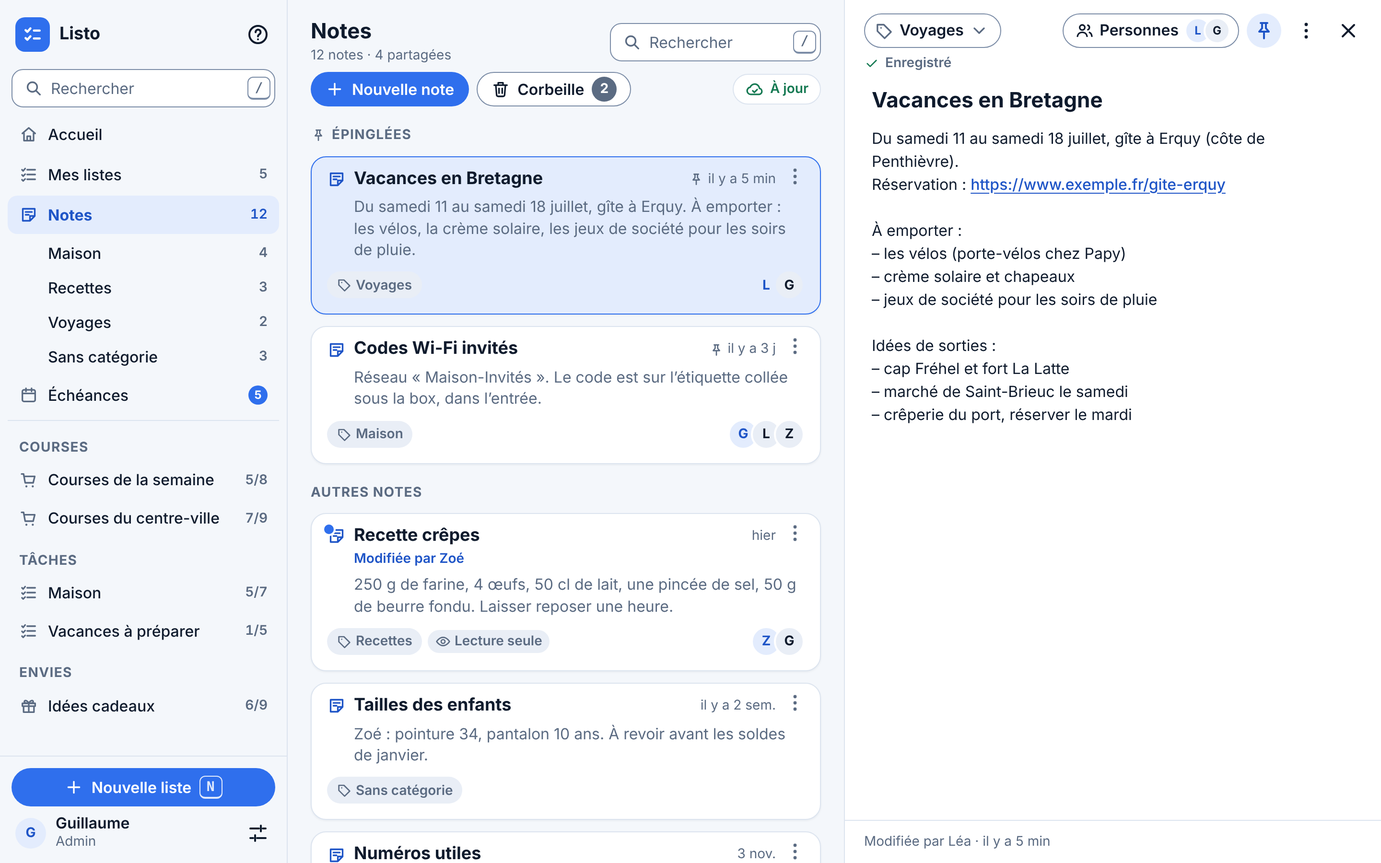
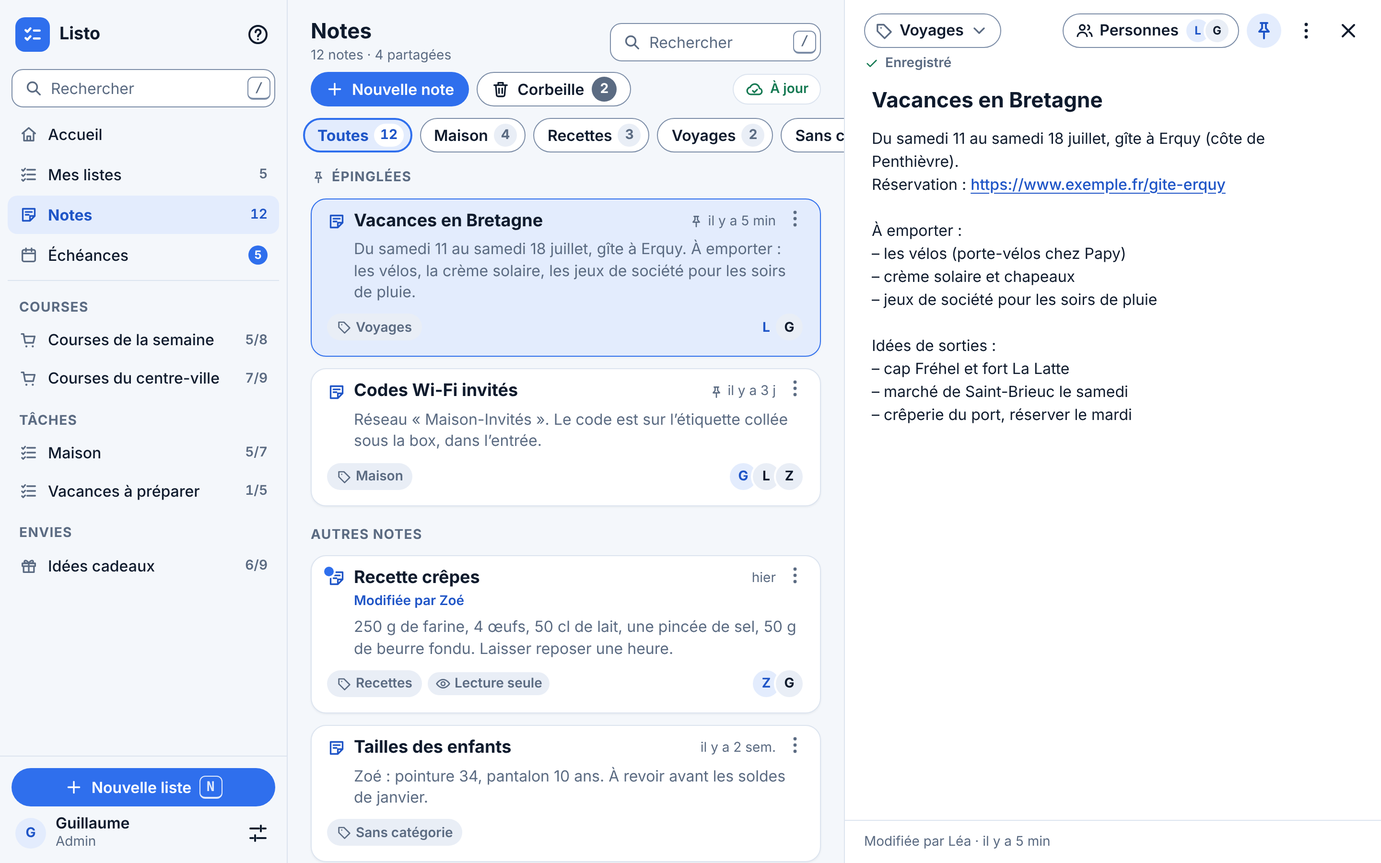
Maquettes : « Notes » sans ses catégories dans le menu de gauche de l'ordinateur
Claude-Session: https://claude.ai/code/session_01RoZ4edsPjQcz3aEDFj3cbP

diff --git a/design/accueil-notes/reference-ordinateur.html b/design/accueil-notes/reference-ordinateur.html
@@ -100,7 +100,7 @@
 </defs></svg>
 <main class="board"><h1 class="board__title">Listo : Accueil et Notes (ordinateur)</h1><p class="board__note">Maquettes du 23 novembre 2026 (cadrage : docs/cadrage-accueil-notes-notifications.md). Chaque écran est capturé seul par capture.mjs (captures/, clair et sombre).</p><div class="board__shots">
 <figure class="shot" id="pc-accueil-1"><figcaption><code>pc-accueil-1</code> · Accueil sur ordinateur</figcaption><div class="desk"><div class="app app--pc"><div class="pc"><aside class="pc-side" aria-label="Navigation"><div class="pc-brand"><a class="pc-brand__home" href="#"><span class="brand-mark" aria-hidden="true"><svg class="icon" aria-hidden="true"><use href="#i-logo"/></svg></span><span class="pc-brand__name">Listo</span><span class="visually-hidden"> Accueil</span></a><button class="icon-btn" type="button" aria-label="Raccourcis clavier"><svg class="icon" aria-hidden="true"><use href="#i-help"/></svg></button></div><label class="searchfield"><svg class="icon icon--sm" aria-hidden="true"><use href="#i-search"/></svg><input class="searchfield__input" type="search" aria-label="Rechercher une liste ou une note" placeholder="Rechercher"><kbd class="keycap">/</kbd></label><div class="pc-side__main"><a class="pc-nav__item" href="#" aria-current="page"><span class="pc-nav__icon"><svg class="icon icon--sm" aria-hidden="true"><use href="#i-home"/></svg></span><span class="pc-nav__name">Accueil</span></a><a class="pc-nav__item" href="#"><span class="pc-nav__icon"><svg class="icon icon--sm" aria-hidden="true"><use href="#i-tasks"/></svg></span><span class="pc-nav__name">Mes listes</span><span class="pc-nav__count">5</span></a><a class="pc-nav__item" href="#"><span class="pc-nav__icon"><svg class="icon icon--sm" aria-hidden="true"><use href="#i-note"/></svg></span><span class="pc-nav__name">Notes</span><span class="pc-nav__count">12</span></a><a class="pc-nav__item" href="#" aria-label="Échéances, 5 tâches en retard ou pour aujourd&#39;hui"><span class="pc-nav__icon"><svg class="icon icon--sm" aria-hidden="true"><use href="#i-calendar"/></svg></span><span class="pc-nav__name">Échéances</span><span class="news-badge" aria-hidden="true">5</span></a></div><nav class="pc-nav" aria-label="Mes listes"><h2 class="pc-nav__group">Courses</h2><ul><li><a class="pc-nav__item" href="#"><span class="pc-nav__icon"><svg class="icon icon--sm" aria-hidden="true"><use href="#i-cart"/></svg></span><span class="pc-nav__name">Courses de la semaine</span><span class="pc-nav__count">5/8</span></a></li><li><a class="pc-nav__item" href="#"><span class="pc-nav__icon"><svg class="icon icon--sm" aria-hidden="true"><use href="#i-cart"/></svg></span><span class="pc-nav__name">Courses du centre-ville</span><span class="pc-nav__count">7/9</span></a></li></ul><h2 class="pc-nav__group">Tâches</h2><ul><li><a class="pc-nav__item" href="#"><span class="pc-nav__icon"><svg class="icon icon--sm" aria-hidden="true"><use href="#i-tasks"/></svg></span><span class="pc-nav__name">Maison</span><span class="pc-nav__count">5/7</span></a></li><li><a class="pc-nav__item" href="#"><span class="pc-nav__icon"><svg class="icon icon--sm" aria-hidden="true"><use href="#i-tasks"/></svg></span><span class="pc-nav__name">Vacances à préparer</span><span class="pc-nav__count">1/5</span></a></li></ul><h2 class="pc-nav__group">Envies</h2><ul><li><a class="pc-nav__item" href="#"><span class="pc-nav__icon"><svg class="icon icon--sm" aria-hidden="true"><use href="#i-gift"/></svg></span><span class="pc-nav__name">Idées cadeaux</span><span class="pc-nav__count">6/9</span></a></li></ul></nav><div class="pc-side__foot"><button class="btn btn--primary btn--block" type="button"><svg class="icon icon--sm" aria-hidden="true"><use href="#i-plus"/></svg>Nouvelle liste<kbd class="keycap">N</kbd></button><div class="pc-user"><span class="avatar">G</span><span class="pc-user__text"><span class="pc-user__name">Guillaume</span><span class="pc-user__role">Admin</span></span><button class="icon-btn" type="button" aria-label="Réglages"><svg class="icon" aria-hidden="true"><use href="#i-sliders"/></svg></button></div></div></aside><main class="pc-main"><div class="pc-col pc-col--wide"><header class="pc-head"><div class="pc-head__main"><h1 class="pc-head__hello">Bonjour Guillaume</h1><p class="pc-head__sub">Lundi 23 novembre</p></div><div class="pc-head__tools"><button class="sync sync--ok" type="button" aria-label="À jour, synchroniser maintenant"><svg class="icon icon--sm" aria-hidden="true"><use href="#i-cloud-ok"/></svg><span class="sync__text">À jour</span></button><button class="icon-btn icon-btn--badge" type="button" aria-label="Notifications, 3 non lues"><svg class="icon" aria-hidden="true"><use href="#i-bell"/></svg><span class="icon-btn__badge" aria-hidden="true">3</span></button></div></header><div class="tiles"><section class="card tile" aria-label="Échéances"><button class="tile__head" type="button"><svg class="icon" aria-hidden="true"><use href="#i-calendar"/></svg><span class="tile__name">Échéances</span></button><ul class="tile__rows"><li><button class="tile__row" type="button" aria-label="En retard, 2 tâches"><span class="tile__label">En retard</span><span class="count count--danger" aria-hidden="true">2</span></button></li><li><button class="tile__row" type="button" aria-label="Aujourd&#39;hui, 3 tâches"><span class="tile__label">Aujourd&#39;hui</span><span class="count count--success" aria-hidden="true">3</span></button></li><li><button class="tile__row" type="button" aria-label="Plus tard, 8 tâches"><span class="tile__label">Plus tard</span><span class="count" aria-hidden="true">8</span></button></li></ul></section><section class="card tile" aria-label="Listes"><button class="tile__head" type="button"><svg class="icon" aria-hidden="true"><use href="#i-tasks"/></svg><span class="tile__name">Listes</span></button><ul class="tile__rows"><li><button class="tile__row" type="button" aria-label="Courses, 2 listes"><span class="tile__label">Courses</span><span class="count" aria-hidden="true">2</span></button></li><li><button class="tile__row" type="button" aria-label="Tâches, 2 listes, nouveautés"><span class="tile__label">Tâches</span><span class="tile__dot" aria-hidden="true"></span><span class="count" aria-hidden="true">2</span></button></li><li><button class="tile__row" type="button" aria-label="Envies, 1 liste"><span class="tile__label">Envies</span><span class="count" aria-hidden="true">1</span></button></li></ul></section><section class="card tile" aria-label="Notes"><button class="tile__head" type="button" aria-label="Notes, 12 notes"><svg class="icon" aria-hidden="true"><use href="#i-note"/></svg><span class="tile__name">Notes</span></button><p class="tile__meta" aria-hidden="true">12 notes</p><ul class="tile__rows"><li><button class="tile__row" type="button" aria-label="Vacances en Bretagne, modifiée par Léa"><span class="tile__label">Vacances en Bretagne</span><span class="tile__dot" aria-hidden="true"></span></button></li><li><button class="tile__row" type="button"><span class="tile__label">Recette crêpes</span></button></li><li><button class="tile__row" type="button"><span class="tile__label">Codes Wi-Fi invités</span></button></li><li><button class="tile__row" type="button"><span class="tile__label">Tailles des enfants</span></button></li><li><button class="tile__row tile__row--add" type="button"><svg class="icon icon--sm" aria-hidden="true"><use href="#i-plus"/></svg><span class="tile__label">Nouvelle note</span></button></li></ul></section><section class="card tile" aria-label="Compte"><button class="tile__head" type="button"><svg class="icon" aria-hidden="true"><use href="#i-user"/></svg><span class="tile__name">Compte</span></button><ul class="tile__rows"><li><button class="tile__row" type="button"><span class="tile__label">Mon compte</span><svg class="icon icon--sm" aria-hidden="true"><use href="#i-chev-r"/></svg></button></li><li><button class="tile__row" type="button" aria-label="Notifications, 3 non lues"><span class="tile__label">Notifications</span><span class="count count--accent" aria-hidden="true">3</span></button></li><li><button class="tile__row" type="button"><span class="tile__label">Réglages</span><svg class="icon icon--sm" aria-hidden="true"><use href="#i-chev-r"/></svg></button></li></ul></section></div></div></main></div></div></div></figure>
-<figure class="shot" id="pc-notes-1"><figcaption><code>pc-notes-1</code> · Notes sur ordinateur</figcaption><div class="desk"><div class="app app--pc"><div class="pc"><aside class="pc-side" aria-label="Navigation"><div class="pc-brand"><a class="pc-brand__home" href="#"><span class="brand-mark" aria-hidden="true"><svg class="icon" aria-hidden="true"><use href="#i-logo"/></svg></span><span class="pc-brand__name">Listo</span><span class="visually-hidden"> Accueil</span></a><button class="icon-btn" type="button" aria-label="Raccourcis clavier"><svg class="icon" aria-hidden="true"><use href="#i-help"/></svg></button></div><label class="searchfield"><svg class="icon icon--sm" aria-hidden="true"><use href="#i-search"/></svg><input class="searchfield__input" type="search" aria-label="Rechercher une liste ou une note" placeholder="Rechercher"><kbd class="keycap">/</kbd></label><div class="pc-side__main"><a class="pc-nav__item" href="#"><span class="pc-nav__icon"><svg class="icon icon--sm" aria-hidden="true"><use href="#i-home"/></svg></span><span class="pc-nav__name">Accueil</span></a><a class="pc-nav__item" href="#"><span class="pc-nav__icon"><svg class="icon icon--sm" aria-hidden="true"><use href="#i-tasks"/></svg></span><span class="pc-nav__name">Mes listes</span><span class="pc-nav__count">5</span></a><a class="pc-nav__item" href="#" aria-current="page"><span class="pc-nav__icon"><svg class="icon icon--sm" aria-hidden="true"><use href="#i-note"/></svg></span><span class="pc-nav__name">Notes</span><span class="pc-nav__count">12</span></a><ul aria-label="Catégories des notes"><li><a class="pc-nav__item pc-nav__item--sub" href="#" aria-label="Maison, 4 notes"><span class="pc-nav__name">Maison</span><span class="pc-nav__count">4</span></a></li><li><a class="pc-nav__item pc-nav__item--sub" href="#" aria-label="Recettes, 3 notes"><span class="pc-nav__name">Recettes</span><span class="pc-nav__count">3</span></a></li><li><a class="pc-nav__item pc-nav__item--sub" href="#" aria-label="Voyages, 2 notes"><span class="pc-nav__name">Voyages</span><span class="pc-nav__count">2</span></a></li><li><a class="pc-nav__item pc-nav__item--sub" href="#" aria-label="Sans catégorie, 3 notes"><span class="pc-nav__name">Sans catégorie</span><span class="pc-nav__count">3</span></a></li></ul><a class="pc-nav__item" href="#" aria-label="Échéances, 5 tâches en retard ou pour aujourd&#39;hui"><span class="pc-nav__icon"><svg class="icon icon--sm" aria-hidden="true"><use href="#i-calendar"/></svg></span><span class="pc-nav__name">Échéances</span><span class="news-badge" aria-hidden="true">5</span></a></div><nav class="pc-nav" aria-label="Mes listes"><h2 class="pc-nav__group">Courses</h2><ul><li><a class="pc-nav__item" href="#"><span class="pc-nav__icon"><svg class="icon icon--sm" aria-hidden="true"><use href="#i-cart"/></svg></span><span class="pc-nav__name">Courses de la semaine</span><span class="pc-nav__count">5/8</span></a></li><li><a class="pc-nav__item" href="#"><span class="pc-nav__icon"><svg class="icon icon--sm" aria-hidden="true"><use href="#i-cart"/></svg></span><span class="pc-nav__name">Courses du centre-ville</span><span class="pc-nav__count">7/9</span></a></li></ul><h2 class="pc-nav__group">Tâches</h2><ul><li><a class="pc-nav__item" href="#"><span class="pc-nav__icon"><svg class="icon icon--sm" aria-hidden="true"><use href="#i-tasks"/></svg></span><span class="pc-nav__name">Maison</span><span class="pc-nav__count">5/7</span></a></li><li><a class="pc-nav__item" href="#"><span class="pc-nav__icon"><svg class="icon icon--sm" aria-hidden="true"><use href="#i-tasks"/></svg></span><span class="pc-nav__name">Vacances à préparer</span><span class="pc-nav__count">1/5</span></a></li></ul><h2 class="pc-nav__group">Envies</h2><ul><li><a class="pc-nav__item" href="#"><span class="pc-nav__icon"><svg class="icon icon--sm" aria-hidden="true"><use href="#i-gift"/></svg></span><span class="pc-nav__name">Idées cadeaux</span><span class="pc-nav__count">6/9</span></a></li></ul></nav><div class="pc-side__foot"><button class="btn btn--primary btn--block" type="button"><svg class="icon icon--sm" aria-hidden="true"><use href="#i-plus"/></svg>Nouvelle liste<kbd class="keycap">N</kbd></button><div class="pc-user"><span class="avatar">G</span><span class="pc-user__text"><span class="pc-user__name">Guillaume</span><span class="pc-user__role">Admin</span></span><button class="icon-btn" type="button" aria-label="Réglages"><svg class="icon" aria-hidden="true"><use href="#i-sliders"/></svg></button></div></div></aside><main class="pc-main"><div class="pc-notes"><div class="pc-notes__list"><header class="pc-head"><div class="pc-head__main"><h1 class="pc-head__title">Notes</h1><p class="pc-head__sub">12 notes · 4 partagées</p></div><label class="searchfield"><svg class="icon icon--sm" aria-hidden="true"><use href="#i-search"/></svg><input class="searchfield__input" type="search" aria-label="Rechercher dans les notes" placeholder="Rechercher"><kbd class="keycap">/</kbd></label></header><div class="pc-tools"><button class="btn btn--primary btn--sm" type="button"><svg class="icon icon--sm" aria-hidden="true"><use href="#i-plus"/></svg>Nouvelle note</button><button class="btn btn--secondary btn--sm" type="button" aria-label="Corbeille des notes, 2 notes"><svg class="icon icon--sm" aria-hidden="true"><use href="#i-trash"/></svg>Corbeille<span class="count" aria-hidden="true">2</span></button><div class="pc-tools__end"><button class="sync sync--ok" type="button" aria-label="À jour, synchroniser maintenant"><svg class="icon icon--sm" aria-hidden="true"><use href="#i-cloud-ok"/></svg><span class="sync__text">À jour</span></button></div></div><div class="scroll"><div class="pc-notes__cards"><h2 class="notes-section"><svg class="icon icon--xs" aria-hidden="true"><use href="#i-pin"/></svg>Épinglées</h2><article class="card note-card is-selected"><div class="note-card__head"><span class="note-card__icon"><svg class="icon icon--sm" aria-hidden="true"><use href="#i-note"/></svg></span><h3 class="note-card__title"><a href="#" style="color:inherit;text-decoration:none">Vacances en Bretagne</a></h3><span class="note-card__time"><svg class="icon icon--xs" aria-hidden="true"><use href="#i-pin"/></svg><span class="visually-hidden">Épinglée, </span>il y a 5 min</span><button class="icon-btn" type="button" aria-label="Actions de Vacances en Bretagne"><svg class="icon" aria-hidden="true"><use href="#i-more"/></svg></button></div><p class="note-card__excerpt">Du samedi 11 au samedi 18 juillet, gîte à Erquy. À emporter : les vélos, la crème solaire, les jeux de société pour les soirs de pluie.</p><div class="note-card__foot"><div class="note-card__chips"><span class="chip"><svg class="icon icon--xs" aria-hidden="true"><use href="#i-tag"/></svg>Voyages</span></div><div class="avatars" role="img" aria-label="Partagée avec Léa, Guillaume"><span class="avatar">L</span><span class="avatar avatar--b">G</span></div></div></article><article class="card note-card"><div class="note-card__head"><span class="note-card__icon"><svg class="icon icon--sm" aria-hidden="true"><use href="#i-note"/></svg></span><h3 class="note-card__title"><a href="#" style="color:inherit;text-decoration:none">Codes Wi-Fi invités</a></h3><span class="note-card__time"><svg class="icon icon--xs" aria-hidden="true"><use href="#i-pin"/></svg><span class="visually-hidden">Épinglée, </span>il y a 3 j</span><button class="icon-btn" type="button" aria-label="Actions de Codes Wi-Fi invités"><svg class="icon" aria-hidden="true"><use href="#i-more"/></svg></button></div><p class="note-card__excerpt">Réseau «&nbsp;Maison-Invités&nbsp;». Le code est sur l’étiquette collée sous la box, dans l’entrée.</p><div class="note-card__foot"><div class="note-card__chips"><span class="chip"><svg class="icon icon--xs" aria-hidden="true"><use href="#i-tag"/></svg>Maison</span></div><div class="avatars" role="img" aria-label="Partagée avec Guillaume, Léa, Zoé"><span class="avatar">G</span><span class="avatar avatar--b">L</span><span class="avatar avatar--b">Z</span></div></div></article><h2 class="notes-section">Autres notes</h2><article class="card note-card"><div class="note-card__head"><span class="note-card__icon"><svg class="icon icon--sm" aria-hidden="true"><use href="#i-note"/></svg><span class="news-badge news-badge--dot" role="img" aria-label="Nouveautés"></span></span><h3 class="note-card__title"><a href="#" style="color:inherit;text-decoration:none">Recette crêpes</a></h3><span class="note-card__time">hier</span><button class="icon-btn" type="button" aria-label="Actions de Recette crêpes"><svg class="icon" aria-hidden="true"><use href="#i-more"/></svg></button></div><span class="note-card__news">Modifiée par Zoé</span><p class="note-card__excerpt">250 g de farine, 4 œufs, 50 cl de lait, une pincée de sel, 50 g de beurre fondu. Laisser reposer une heure.</p><div class="note-card__foot"><div class="note-card__chips"><span class="chip"><svg class="icon icon--xs" aria-hidden="true"><use href="#i-tag"/></svg>Recettes</span><span class="chip chip--readonly"><svg class="icon icon--xs" aria-hidden="true"><use href="#i-eye"/></svg>Lecture seule</span></div><div class="avatars" role="img" aria-label="Partagée avec Zoé, Guillaume"><span class="avatar">Z</span><span class="avatar avatar--b">G</span></div></div></article><article class="card note-card"><div class="note-card__head"><span class="note-card__icon"><svg class="icon icon--sm" aria-hidden="true"><use href="#i-note"/></svg></span><h3 class="note-card__title"><a href="#" style="color:inherit;text-decoration:none">Tailles des enfants</a></h3><span class="note-card__time">il y a 2 sem.</span><button class="icon-btn" type="button" aria-label="Actions de Tailles des enfants"><svg class="icon" aria-hidden="true"><use href="#i-more"/></svg></button></div><p class="note-card__excerpt">Zoé : pointure 34, pantalon 10 ans. À revoir avant les soldes de janvier.</p><div class="note-card__foot"><div class="note-card__chips"><span class="chip"><svg class="icon icon--xs" aria-hidden="true"><use href="#i-tag"/></svg>Sans catégorie</span></div></div></article><article class="card note-card"><div class="note-card__head"><span class="note-card__icon"><svg class="icon icon--sm" aria-hidden="true"><use href="#i-note"/></svg></span><h3 class="note-card__title"><a href="#" style="color:inherit;text-decoration:none">Numéros utiles</a></h3><span class="note-card__time">3 nov.</span><button class="icon-btn" type="button" aria-label="Actions de Numéros utiles"><svg class="icon" aria-hidden="true"><use href="#i-more"/></svg></button></div><p class="note-card__excerpt">Plombier, électricien, chauffagiste : les cartes sont dans le tiroir de l’entrée.</p><div class="note-card__foot"><div class="note-card__chips"><span class="chip"><svg class="icon icon--xs" aria-hidden="true"><use href="#i-tag"/></svg>Maison</span></div></div></article></div></div></div><section class="pc-note" aria-label="Note ouverte : Vacances en Bretagne"><div class="pc-note__bar"><button class="btn btn--sm btn--secondary note-cat" type="button" aria-haspopup="listbox" aria-label="Catégorie : Voyages. Changer"><svg class="icon icon--sm" aria-hidden="true"><use href="#i-tag"/></svg><span class="note-cat__name">Voyages</span><svg class="icon icon--sm" aria-hidden="true"><use href="#i-chev-d"/></svg></button><span class="grow"></span><button class="btn btn--sm btn--secondary note-people" type="button" aria-haspopup="dialog" aria-label="Personnes : Léa (propriétaire) et vous, peut modifier"><svg class="icon icon--sm" aria-hidden="true"><use href="#i-users"/></svg>Personnes<span class="avatars" aria-hidden="true"><span class="avatar">L</span><span class="avatar avatar--b">G</span></span></button><button class="icon-btn" type="button" aria-label="Désépingler" aria-pressed="true"><svg class="icon" aria-hidden="true"><use href="#i-pin"/></svg></button><button class="icon-btn" type="button" aria-label="Plus d&#39;actions" aria-haspopup="menu"><svg class="icon" aria-hidden="true"><use href="#i-more"/></svg></button><button class="icon-btn" type="button" aria-label="Fermer la note"><svg class="icon" aria-hidden="true"><use href="#i-close"/></svg></button></div><p class="note-status note-status--ok" role="status"><svg class="icon icon--xs" aria-hidden="true"><use href="#i-check"/></svg>Enregistré</p><div class="note-edit"><input class="note-edit__title" type="text" aria-label="Titre" value="Vacances en Bretagne"><div class="note-edit__body" role="textbox" aria-multiline="true" aria-label="Texte de la note">Du samedi 11 au samedi 18 juillet, gîte à Erquy (côte de Penthièvre).
+<figure class="shot" id="pc-notes-1"><figcaption><code>pc-notes-1</code> · Notes sur ordinateur</figcaption><div class="desk"><div class="app app--pc"><div class="pc"><aside class="pc-side" aria-label="Navigation"><div class="pc-brand"><a class="pc-brand__home" href="#"><span class="brand-mark" aria-hidden="true"><svg class="icon" aria-hidden="true"><use href="#i-logo"/></svg></span><span class="pc-brand__name">Listo</span><span class="visually-hidden"> Accueil</span></a><button class="icon-btn" type="button" aria-label="Raccourcis clavier"><svg class="icon" aria-hidden="true"><use href="#i-help"/></svg></button></div><label class="searchfield"><svg class="icon icon--sm" aria-hidden="true"><use href="#i-search"/></svg><input class="searchfield__input" type="search" aria-label="Rechercher une liste ou une note" placeholder="Rechercher"><kbd class="keycap">/</kbd></label><div class="pc-side__main"><a class="pc-nav__item" href="#"><span class="pc-nav__icon"><svg class="icon icon--sm" aria-hidden="true"><use href="#i-home"/></svg></span><span class="pc-nav__name">Accueil</span></a><a class="pc-nav__item" href="#"><span class="pc-nav__icon"><svg class="icon icon--sm" aria-hidden="true"><use href="#i-tasks"/></svg></span><span class="pc-nav__name">Mes listes</span><span class="pc-nav__count">5</span></a><a class="pc-nav__item" href="#" aria-current="page"><span class="pc-nav__icon"><svg class="icon icon--sm" aria-hidden="true"><use href="#i-note"/></svg></span><span class="pc-nav__name">Notes</span><span class="pc-nav__count">12</span></a><a class="pc-nav__item" href="#" aria-label="Échéances, 5 tâches en retard ou pour aujourd&#39;hui"><span class="pc-nav__icon"><svg class="icon icon--sm" aria-hidden="true"><use href="#i-calendar"/></svg></span><span class="pc-nav__name">Échéances</span><span class="news-badge" aria-hidden="true">5</span></a></div><nav class="pc-nav" aria-label="Mes listes"><h2 class="pc-nav__group">Courses</h2><ul><li><a class="pc-nav__item" href="#"><span class="pc-nav__icon"><svg class="icon icon--sm" aria-hidden="true"><use href="#i-cart"/></svg></span><span class="pc-nav__name">Courses de la semaine</span><span class="pc-nav__count">5/8</span></a></li><li><a class="pc-nav__item" href="#"><span class="pc-nav__icon"><svg class="icon icon--sm" aria-hidden="true"><use href="#i-cart"/></svg></span><span class="pc-nav__name">Courses du centre-ville</span><span class="pc-nav__count">7/9</span></a></li></ul><h2 class="pc-nav__group">Tâches</h2><ul><li><a class="pc-nav__item" href="#"><span class="pc-nav__icon"><svg class="icon icon--sm" aria-hidden="true"><use href="#i-tasks"/></svg></span><span class="pc-nav__name">Maison</span><span class="pc-nav__count">5/7</span></a></li><li><a class="pc-nav__item" href="#"><span class="pc-nav__icon"><svg class="icon icon--sm" aria-hidden="true"><use href="#i-tasks"/></svg></span><span class="pc-nav__name">Vacances à préparer</span><span class="pc-nav__count">1/5</span></a></li></ul><h2 class="pc-nav__group">Envies</h2><ul><li><a class="pc-nav__item" href="#"><span class="pc-nav__icon"><svg class="icon icon--sm" aria-hidden="true"><use href="#i-gift"/></svg></span><span class="pc-nav__name">Idées cadeaux</span><span class="pc-nav__count">6/9</span></a></li></ul></nav><div class="pc-side__foot"><button class="btn btn--primary btn--block" type="button"><svg class="icon icon--sm" aria-hidden="true"><use href="#i-plus"/></svg>Nouvelle liste<kbd class="keycap">N</kbd></button><div class="pc-user"><span class="avatar">G</span><span class="pc-user__text"><span class="pc-user__name">Guillaume</span><span class="pc-user__role">Admin</span></span><button class="icon-btn" type="button" aria-label="Réglages"><svg class="icon" aria-hidden="true"><use href="#i-sliders"/></svg></button></div></div></aside><main class="pc-main"><div class="pc-notes"><div class="pc-notes__list"><header class="pc-head"><div class="pc-head__main"><h1 class="pc-head__title">Notes</h1><p class="pc-head__sub">12 notes · 4 partagées</p></div><label class="searchfield"><svg class="icon icon--sm" aria-hidden="true"><use href="#i-search"/></svg><input class="searchfield__input" type="search" aria-label="Rechercher dans les notes" placeholder="Rechercher"><kbd class="keycap">/</kbd></label></header><div class="pc-tools"><button class="btn btn--primary btn--sm" type="button"><svg class="icon icon--sm" aria-hidden="true"><use href="#i-plus"/></svg>Nouvelle note</button><button class="btn btn--secondary btn--sm" type="button" aria-label="Corbeille des notes, 2 notes"><svg class="icon icon--sm" aria-hidden="true"><use href="#i-trash"/></svg>Corbeille<span class="count" aria-hidden="true">2</span></button><div class="pc-tools__end"><button class="sync sync--ok" type="button" aria-label="À jour, synchroniser maintenant"><svg class="icon icon--sm" aria-hidden="true"><use href="#i-cloud-ok"/></svg><span class="sync__text">À jour</span></button></div></div><div class="catbar" role="group" aria-label="Catégories"><button class="cat-chip" type="button" aria-pressed="true" aria-label="Toutes, 12 notes">Toutes<span class="cat-chip__count" aria-hidden="true">12</span></button><button class="cat-chip" type="button" aria-pressed="false" aria-label="Maison, 4 notes">Maison<span class="cat-chip__count" aria-hidden="true">4</span></button><button class="cat-chip" type="button" aria-pressed="false" aria-label="Recettes, 3 notes">Recettes<span class="cat-chip__count" aria-hidden="true">3</span></button><button class="cat-chip" type="button" aria-pressed="false" aria-label="Voyages, 2 notes">Voyages<span class="cat-chip__count" aria-hidden="true">2</span></button><button class="cat-chip" type="button" aria-pressed="false" aria-label="Sans catégorie, 3 notes">Sans catégorie<span class="cat-chip__count" aria-hidden="true">3</span></button></div><div class="scroll"><div class="pc-notes__cards"><h2 class="notes-section"><svg class="icon icon--xs" aria-hidden="true"><use href="#i-pin"/></svg>Épinglées</h2><article class="card note-card is-selected"><div class="note-card__head"><span class="note-card__icon"><svg class="icon icon--sm" aria-hidden="true"><use href="#i-note"/></svg></span><h3 class="note-card__title"><a href="#" style="color:inherit;text-decoration:none">Vacances en Bretagne</a></h3><span class="note-card__time"><svg class="icon icon--xs" aria-hidden="true"><use href="#i-pin"/></svg><span class="visually-hidden">Épinglée, </span>il y a 5 min</span><button class="icon-btn" type="button" aria-label="Actions de Vacances en Bretagne"><svg class="icon" aria-hidden="true"><use href="#i-more"/></svg></button></div><p class="note-card__excerpt">Du samedi 11 au samedi 18 juillet, gîte à Erquy. À emporter : les vélos, la crème solaire, les jeux de société pour les soirs de pluie.</p><div class="note-card__foot"><div class="note-card__chips"><span class="chip"><svg class="icon icon--xs" aria-hidden="true"><use href="#i-tag"/></svg>Voyages</span></div><div class="avatars" role="img" aria-label="Partagée avec Léa, Guillaume"><span class="avatar">L</span><span class="avatar avatar--b">G</span></div></div></article><article class="card note-card"><div class="note-card__head"><span class="note-card__icon"><svg class="icon icon--sm" aria-hidden="true"><use href="#i-note"/></svg></span><h3 class="note-card__title"><a href="#" style="color:inherit;text-decoration:none">Codes Wi-Fi invités</a></h3><span class="note-card__time"><svg class="icon icon--xs" aria-hidden="true"><use href="#i-pin"/></svg><span class="visually-hidden">Épinglée, </span>il y a 3 j</span><button class="icon-btn" type="button" aria-label="Actions de Codes Wi-Fi invités"><svg class="icon" aria-hidden="true"><use href="#i-more"/></svg></button></div><p class="note-card__excerpt">Réseau «&nbsp;Maison-Invités&nbsp;». Le code est sur l’étiquette collée sous la box, dans l’entrée.</p><div class="note-card__foot"><div class="note-card__chips"><span class="chip"><svg class="icon icon--xs" aria-hidden="true"><use href="#i-tag"/></svg>Maison</span></div><div class="avatars" role="img" aria-label="Partagée avec Guillaume, Léa, Zoé"><span class="avatar">G</span><span class="avatar avatar--b">L</span><span class="avatar avatar--b">Z</span></div></div></article><h2 class="notes-section">Autres notes</h2><article class="card note-card"><div class="note-card__head"><span class="note-card__icon"><svg class="icon icon--sm" aria-hidden="true"><use href="#i-note"/></svg><span class="news-badge news-badge--dot" role="img" aria-label="Nouveautés"></span></span><h3 class="note-card__title"><a href="#" style="color:inherit;text-decoration:none">Recette crêpes</a></h3><span class="note-card__time">hier</span><button class="icon-btn" type="button" aria-label="Actions de Recette crêpes"><svg class="icon" aria-hidden="true"><use href="#i-more"/></svg></button></div><span class="note-card__news">Modifiée par Zoé</span><p class="note-card__excerpt">250 g de farine, 4 œufs, 50 cl de lait, une pincée de sel, 50 g de beurre fondu. Laisser reposer une heure.</p><div class="note-card__foot"><div class="note-card__chips"><span class="chip"><svg class="icon icon--xs" aria-hidden="true"><use href="#i-tag"/></svg>Recettes</span><span class="chip chip--readonly"><svg class="icon icon--xs" aria-hidden="true"><use href="#i-eye"/></svg>Lecture seule</span></div><div class="avatars" role="img" aria-label="Partagée avec Zoé, Guillaume"><span class="avatar">Z</span><span class="avatar avatar--b">G</span></div></div></article><article class="card note-card"><div class="note-card__head"><span class="note-card__icon"><svg class="icon icon--sm" aria-hidden="true"><use href="#i-note"/></svg></span><h3 class="note-card__title"><a href="#" style="color:inherit;text-decoration:none">Tailles des enfants</a></h3><span class="note-card__time">il y a 2 sem.</span><button class="icon-btn" type="button" aria-label="Actions de Tailles des enfants"><svg class="icon" aria-hidden="true"><use href="#i-more"/></svg></button></div><p class="note-card__excerpt">Zoé : pointure 34, pantalon 10 ans. À revoir avant les soldes de janvier.</p><div class="note-card__foot"><div class="note-card__chips"><span class="chip"><svg class="icon icon--xs" aria-hidden="true"><use href="#i-tag"/></svg>Sans catégorie</span></div></div></article><article class="card note-card"><div class="note-card__head"><span class="note-card__icon"><svg class="icon icon--sm" aria-hidden="true"><use href="#i-note"/></svg></span><h3 class="note-card__title"><a href="#" style="color:inherit;text-decoration:none">Numéros utiles</a></h3><span class="note-card__time">3 nov.</span><button class="icon-btn" type="button" aria-label="Actions de Numéros utiles"><svg class="icon" aria-hidden="true"><use href="#i-more"/></svg></button></div><p class="note-card__excerpt">Plombier, électricien, chauffagiste : les cartes sont dans le tiroir de l’entrée.</p><div class="note-card__foot"><div class="note-card__chips"><span class="chip"><svg class="icon icon--xs" aria-hidden="true"><use href="#i-tag"/></svg>Maison</span></div></div></article></div></div></div><section class="pc-note" aria-label="Note ouverte : Vacances en Bretagne"><div class="pc-note__bar"><button class="btn btn--sm btn--secondary note-cat" type="button" aria-haspopup="listbox" aria-label="Catégorie : Voyages. Changer"><svg class="icon icon--sm" aria-hidden="true"><use href="#i-tag"/></svg><span class="note-cat__name">Voyages</span><svg class="icon icon--sm" aria-hidden="true"><use href="#i-chev-d"/></svg></button><span class="grow"></span><button class="btn btn--sm btn--secondary note-people" type="button" aria-haspopup="dialog" aria-label="Personnes : Léa (propriétaire) et vous, peut modifier"><svg class="icon icon--sm" aria-hidden="true"><use href="#i-users"/></svg>Personnes<span class="avatars" aria-hidden="true"><span class="avatar">L</span><span class="avatar avatar--b">G</span></span></button><button class="icon-btn" type="button" aria-label="Désépingler" aria-pressed="true"><svg class="icon" aria-hidden="true"><use href="#i-pin"/></svg></button><button class="icon-btn" type="button" aria-label="Plus d&#39;actions" aria-haspopup="menu"><svg class="icon" aria-hidden="true"><use href="#i-more"/></svg></button><button class="icon-btn" type="button" aria-label="Fermer la note"><svg class="icon" aria-hidden="true"><use href="#i-close"/></svg></button></div><p class="note-status note-status--ok" role="status"><svg class="icon icon--xs" aria-hidden="true"><use href="#i-check"/></svg>Enregistré</p><div class="note-edit"><input class="note-edit__title" type="text" aria-label="Titre" value="Vacances en Bretagne"><div class="note-edit__body" role="textbox" aria-multiline="true" aria-label="Texte de la note">Du samedi 11 au samedi 18 juillet, gîte à Erquy (côte de Penthièvre).
 Réservation : <a class="note-link" href="#" target="_blank" rel="noopener noreferrer">https://www.exemple.fr/gite-erquy</a>
 
 À emporter :

diff --git a/design/accueil-notes/listo-accueil-notes.css b/design/accueil-notes/listo-accueil-notes.css
@@ -245,10 +245,10 @@
 /* 16.27 Ordinateur (.app--pc, à partir de 1 024 px)
    - Menu de gauche : .pc-side__main, entrées fixes sous la recherche, dans
      l'ordre du bandeau du téléphone : Accueil, Mes listes, Notes,
-     Échéances (« Échéances » garde sa pastille .news-badge). Les
-     catégories des notes s'ouvrent sous « Notes » (.pc-nav__item--sub,
-     en retrait, avec leur nombre) quand l'écran Notes est affiché. Les
-     listes, groupées par type, restent dessous, inchangées.
+     Échéances (« Échéances » garde sa pastille .news-badge). « Notes »
+     est une seule entrée, sans ses catégories (choix du propriétaire du
+     23 novembre 2026) : elles sont en pastilles (.catbar) au-dessus des
+     cartes, comme sur le téléphone. Les listes, groupées par type, restent dessous, inchangées.
    - Accueil : en-tête .pc-head (« Bonjour Guillaume », date ; pastille
      d'état et cloche à droite) ; tuiles sur trois colonnes (quatre au-delà
      de 1 440 px), la tuile Notes montre jusqu'à quatre notes.
@@ -257,8 +257,6 @@
      s'enregistre toute seule, et un clic sur une autre carte l'ouvre. */
 .pc-side__main { display: flex; flex: none; flex-direction: column; gap: 2px; margin: 4px 8px 0; padding-bottom: 6px; border-bottom: 1px solid var(--color-border); }
 .pc-side__main .news-badge { position: static; flex: none; margin-left: auto; border: 0; }
-.pc-nav__item--sub { min-height: 36px; padding-left: 42px; font-size: var(--text-base); }
-@media (pointer: coarse) { .pc-nav__item--sub { min-height: 44px; } }
 .pc-head__tools { display: flex; flex: none; align-items: center; gap: 8px; }
 .pc-head__hello { font-size: var(--text-display); font-weight: 700; line-height: 1.15; }
 .app--pc .tiles { grid-template-columns: repeat(3, minmax(0, 1fr)); gap: 16px; padding: 4px var(--pc-gutter) var(--pc-gutter); }

diff --git a/docs/cadrage-accueil-notes-notifications.md b/docs/cadrage-accueil-notes-notifications.md
@@ -28,7 +28,7 @@ Document de conception rédigé le 23 novembre 2026, à partir des demandes et d
 - **Téléphone** : le bandeau du bas en verre (décision du 11 novembre 2026) passe de trois à cinq boutons, toujours à la même place, toute la largeur : **Accueil** (icône maison), **Listes** (« Mes listes » jusqu'ici), **Notes** (nouvelle icône « note »), **Échéances**, **Réglages**. Libellés courts sous chaque icône, zones tactiles d'au moins 44 px, bouton de l'écran ouvert mis en avant comme aujourd'hui. **Pas de bandeau sur l'Accueil** (choix du propriétaire du 23 novembre 2026) : ses tuiles mènent déjà à tout (Listes, Notes, Échéances, Notifications, Mon compte, Réglages) ; on revient à l'Accueil par le bouton « Accueil » du bandeau des autres écrans.
 - **Premier écran** : l'Accueil (`#/accueil`) à l'ouverture de l'application et après la connexion ; une adresse vide ou inconnue mène à l'Accueil (aujourd'hui « Mes listes »). Un lien direct (liste, note, autorisation d'un assistant IA, notification touchée) ouvre toujours directement son écran.
 - **Loupe ronde** : sur Listes, Notes et Échéances comme aujourd'hui pour les écrans qui ont une recherche ; jamais sur l'Accueil (rien à chercher) ni sur la page Notifications.
-- **Ordinateur** (à partir de 1 024 px) : le menu de gauche gagne « Accueil » en tête, puis « Mes listes » (groupes et compteurs inchangés), « Notes » (avec ses catégories et leur nombre), « Échéances ». La cloche des notifications est dans l'en-tête de l'Accueil, comme sur le téléphone. Le téléphone ne change pas au-delà de ce qui est décrit ici (captures avant/après expliquées).
+- **Ordinateur** (à partir de 1 024 px) : le menu de gauche gagne « Accueil » en tête, puis « Mes listes » (groupes et compteurs inchangés), « Notes » (une seule entrée avec le nombre de notes, **sans les catégories** : choix du propriétaire du 23 novembre 2026 ; elles restent en pastilles au-dessus des cartes, comme sur le téléphone), « Échéances ». La cloche des notifications est dans l'en-tête de l'Accueil, comme sur le téléphone. Le téléphone ne change pas au-delà de ce qui est décrit ici (captures avant/après expliquées).
 
 ## 2. Accueil
 
@@ -238,7 +238,7 @@ Dans `design/accueil-notes/` (`README.md`, pages de référence, styles des nouv
 | notifications-1 | Page Notifications (Aujourd'hui, Hier, non lues) |
 | notifications-2 | Page Notifications vide |
 | pc-accueil-1 | Accueil sur ordinateur, menu de gauche avec Accueil et Notes |
-| pc-notes-1 | Notes sur ordinateur (catégories dans le menu, note ouverte) |
+| pc-notes-1 | Notes sur ordinateur (« Notes » dans le menu de gauche sans ses catégories, pastilles de catégories au-dessus des cartes, note ouverte) |
 
 Les nouveaux composants (tuile, ligne de tuile avec nombre, carte de note, pastilles de catégories, ligne de notification, cloche avec pastille) sont dans `design/accueil-notes/listo-accueil-notes.css` (sections 16.19 à 16.27) et les icônes manquantes (« note », « épingle ») dans `design/accueil-notes/icons-nouvelles.svg.html` ; ils rejoindront `design/listo.css`, `design/components.html` et le sprite à la construction. Les choix faits en dessinant (en-tête, boutons, emplacement de « Nouvelle note »…) et les points à trancher sont dans `design/accueil-notes/README.md`.
 

diff --git a/design/accueil-notes/README.md b/design/accueil-notes/README.md
@@ -23,7 +23,7 @@ Maquettes du 23 novembre 2026 pour le cadrage `docs/cadrage-accueil-notes-notifi
 - `note-2` : conflit : « À vérifier », bandeau « Léa vient de modifier cette note », choix Garder la mienne / Prendre la leur / Garder les deux, « Décider plus tard ».
 - `notifications-1` : Aujourd'hui, Hier, Samedi 21 novembre ; trois non lues (point, texte en gras, icône bleue) ; « Tout marquer comme lu » ; une ligne glissée qui montre « Effacer » ; « Tout effacer » en bas.
 - `notifications-2` : « Aucune notification ».
-- `pc-accueil-1`, `pc-notes-1` : menu de gauche avec Accueil, Mes listes, Notes (catégories ouvertes sur l'écran Notes), Échéances ; tuiles sur trois colonnes ; notes à gauche et note ouverte à droite.
+- `pc-accueil-1`, `pc-notes-1` : menu de gauche avec Accueil, Mes listes, Notes (une seule entrée, sans les catégories : choix du propriétaire du 23 novembre 2026), Échéances ; pastilles des catégories au-dessus des cartes de notes, comme sur le téléphone ; tuiles sur trois colonnes ; notes à gauche et note ouverte à droite.
 
 ## Nouveaux composants
 
